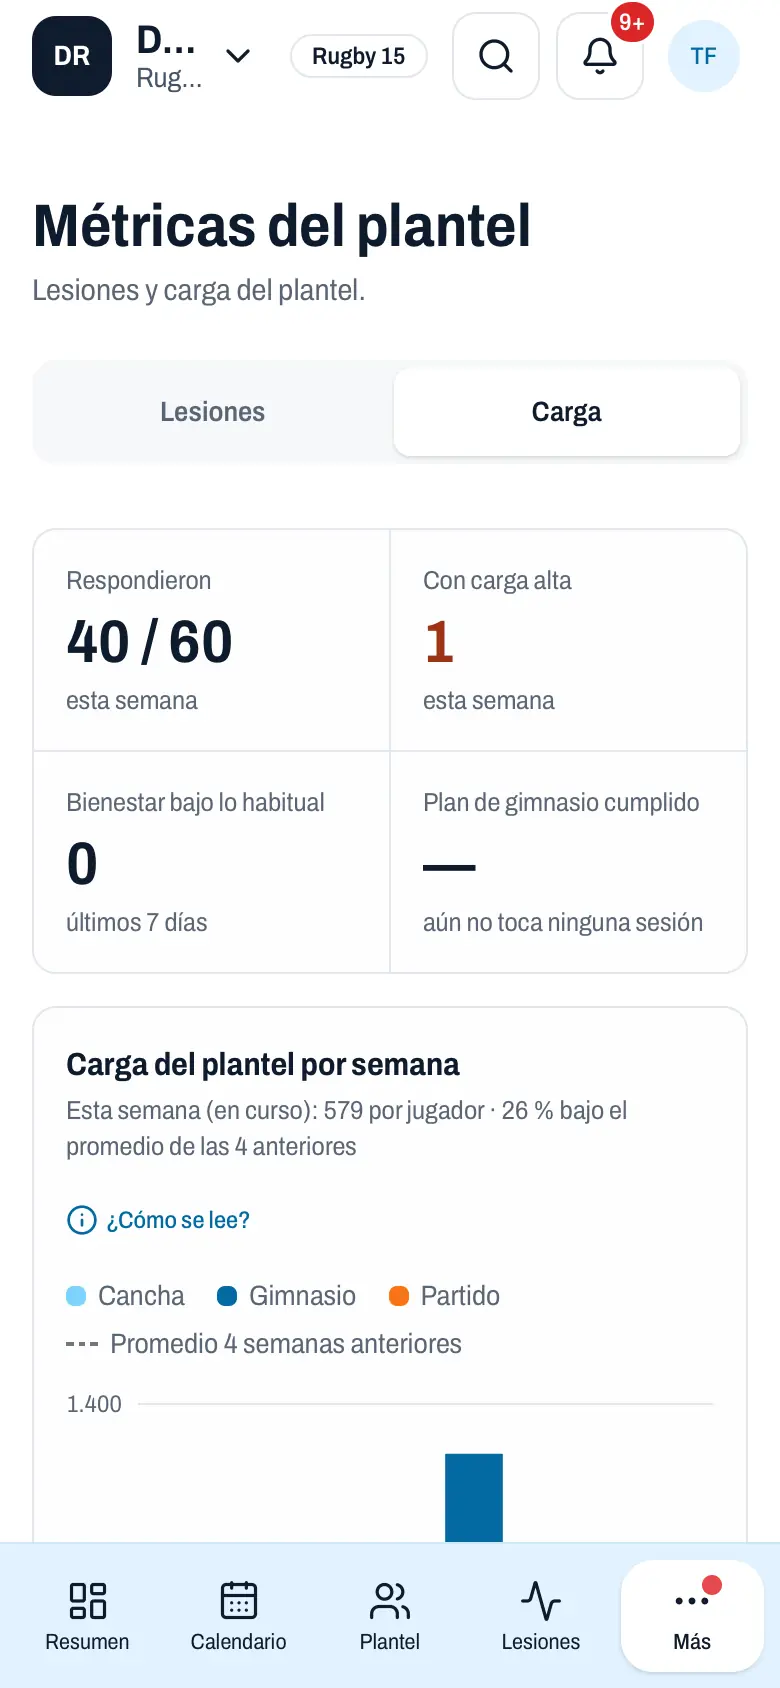
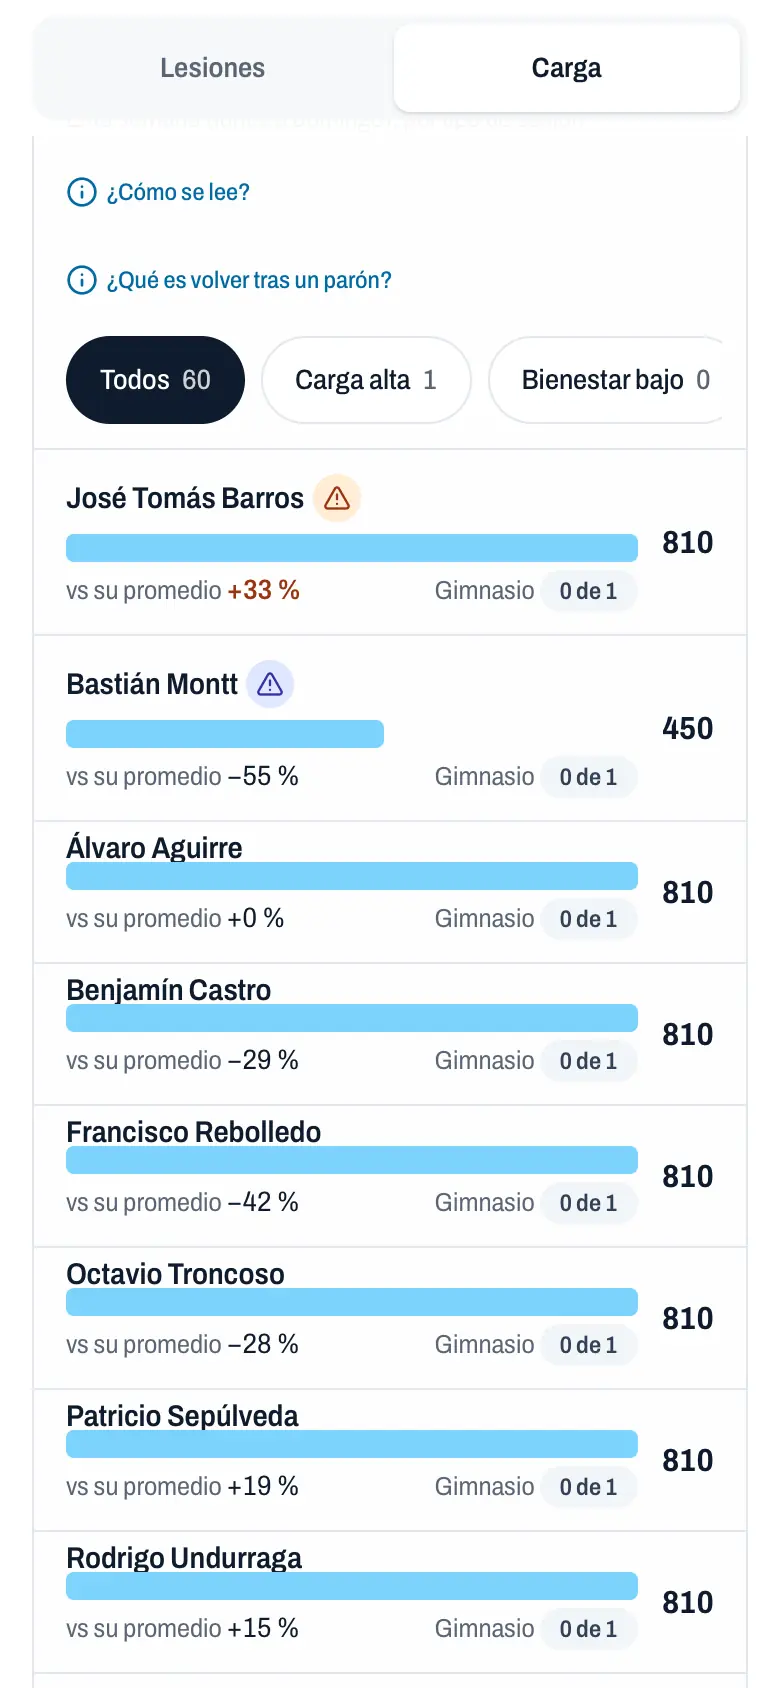
Landing: capturas de Funciones recortadas a lo importante de cada pantalla
- El script oculta el encabezado del club y la barra inferior solo al capturar y deja arriba el
  foco de cada pantalla (cancha de la nómina, escala de esfuerzo con un 7, "Tu estado", mapa del
  cuerpo, "Carga por jugador", etc.).
- Navegación más robusta en next dev (redirecciones cruzadas y focos que no aparecen).
- La nómina demo no convoca a jugadores con lesión abierta (evita el aviso rojo en la captura).

diff --git a/scripts/capturas-landing.ts b/scripts/capturas-landing.ts
@@ -85,7 +85,9 @@ async function session(role: Role, device: Device) {
     { name: "recov_club", value: CLUB_ID, url: BASE },
     { name: "recov_format", value: "15", url: BASE },
   ]);
-  await page.goto(`${BASE}/dashboard`, { waitUntil: "domcontentloaded" });
+  // Tras el login la app aún puede estar redirigiendo: se espera y, si se cruza, se reintenta.
+  await page.waitForLoadState("networkidle", { timeout: 15000 }).catch(() => {});
+  await go(page, "/dashboard");
   if (!/Demo - Rugby/.test(await page.locator("body").innerText())) {
     throw new Error(`La cuenta ${role} no entró a Demo - Rugby`);
   }
@@ -100,13 +102,18 @@ async function settle(page: Page) {
 }
 
 async function go(page: Page, url: string) {
-  await page.goto(`${BASE}${url}`, { waitUntil: "domcontentloaded" });
+  // Si la app redirige a la misma pantalla (p. ej. al fijar el plantel activo), Playwright avisa
+  // que la navegación se cruzó: basta con esperar a que la segunda termine.
+  await page.goto(`${BASE}${url}`, { waitUntil: "domcontentloaded" }).catch(async (e: Error) => {
+    if (!/interrupted by another navigation/.test(e.message)) throw e;
+    await page.waitForLoadState("domcontentloaded");
+  });
   await settle(page);
 }
 
 /** Lleva un elemento a la parte de arriba de la pantalla, con un margen. */
 async function top(page: Page, loc: Locator, margin = 12) {
-  await loc.scrollIntoViewIfNeeded();
+  await loc.scrollIntoViewIfNeeded({ timeout: 8000 });
   await loc.evaluate((el, m) => window.scrollTo(0, Math.max(0, el.getBoundingClientRect().top + window.scrollY - m)), margin);
   await page.waitForTimeout(300);
 }
@@ -116,44 +123,114 @@ async function click(p: Page, loc: Locator) {
   await settle(p);
 }
 
-type Cap = { file: string; role: Role; device: Device; run: (p: Page) => Promise<void> };
+/**
+ * Celular: oculta el encabezado del club y la barra inferior de la app (solo en la captura, con
+ * CSS inyectado) para que la pantalla muestre lo importante, sin chrome repetido.
+ */
+async function hideChrome(page: Page) {
+  await page.addStyleTag({
+    content: `
+      header[class*="safe-area-inset-top"],
+      nav[aria-label="Navegación principal"] { display: none !important; }
+      html, body { scroll-behavior: auto !important; }
+      /* Espacio extra al final para poder dejar arriba el foco aunque la pantalla sea corta. */
+      body { padding-bottom: 100vh !important; }`,
+  });
+  await page.waitForTimeout(150);
+}
+
+/** Atajos para elegir el elemento que va arriba en cada captura. */
+const heading = (p: Page, text: string | RegExp) => p.getByRole("heading", { name: text }).filter({ visible: true }).first();
+const visibleText = (p: Page, text: string | RegExp) => p.getByText(text).filter({ visible: true }).first();
+
+type Cap = {
+  file: string;
+  role: Role;
+  device: Device;
+  run: (p: Page) => Promise<void>;
+  /** Elemento que queda arriba de la pantalla, con un margen en px (por defecto 24). */
+  focus?: (p: Page) => Locator;
+  margin?: number;
+};
 const caps: Cap[] = [
   { file: "hero-ipad-staff-resumen", role: "head-coach", device: "ipad", run: (p) => go(p, "/dashboard") },
-  { file: "staff-resumen", role: "head-coach", device: "phone", run: (p) => go(p, "/dashboard") },
-  { file: "staff-lesiones", role: "kine", device: "phone", run: (p) => go(p, "/lesiones") },
-  { file: "staff-calendario", role: "head-coach", device: "phone", run: (p) => go(p, "/calendario") },
+  {
+    file: "staff-resumen",
+    role: "head-coach",
+    device: "phone",
+    run: (p) => go(p, "/dashboard"),
+    focus: (p) => heading(p, "Disponibilidad del plantel"),
+  },
+  {
+    file: "staff-lesiones",
+    role: "kine",
+    device: "phone",
+    run: (p) => go(p, "/lesiones"),
+  },
+  {
+    file: "staff-calendario",
+    role: "head-coach",
+    device: "phone",
+    run: (p) => go(p, "/calendario"),
+    focus: (p) => visibleText(p, /^lun, \d+ \w+ – dom/),
+  },
   {
     file: "staff-partido",
     role: "head-coach",
     device: "phone",
     run: async (p) => {
+      // Nómina del próximo partido en vista Cancha: titulares en sus puestos.
       await go(p, "/nominas");
       const id = await p.locator("a[href*='/disponibles']").first().getAttribute("href");
       if (!id) throw new Error("Sin nómina del próximo partido");
       await go(p, id);
+      // Clic por JS: en `next dev` a veces una capa transparente intercepta el puntero.
+      await p.getByRole("button", { name: "Cancha" }).filter({ visible: true }).first().evaluate((b) => (b as HTMLElement).click());
+      await settle(p);
     },
+    // El resumen de la nómina queda fijo arriba: el selector Lista | Cancha va justo debajo.
+    focus: (p) => p.getByRole("group", { name: "Vista" }).filter({ visible: true }).first(),
+    margin: 150,
   },
   {
     file: "staff-evaluaciones",
     role: "preparador-fisico",
     device: "phone",
-    run: async (p) => {
-      await go(p, "/evaluaciones?tab=comparar");
-    },
+    run: (p) => go(p, "/evaluaciones?tab=comparar"),
+    focus: (p) => visibleText(p, /^Test$/),
+    margin: 40,
   },
   {
     file: "staff-gimnasio",
     role: "preparador-fisico",
     device: "phone",
-    run: async (p) => {
-      // Lleva la sesión (bloques y ejercicios) a la parte de arriba de la pantalla.
-      await go(p, `/planes/${PLAN_GIMNASIO}`);
-      await top(p, p.getByText(/Sentadilla/).filter({ visible: true }).first(), 220);
-    },
+    run: (p) => go(p, `/planes/${PLAN_GIMNASIO}`),
+    // La sesión: nombre, día y los bloques con sus ejercicios.
+    focus: (p) => visibleText(p, /Sentadilla/),
+    margin: 150,
   },
-  { file: "staff-carga", role: "head-coach", device: "phone", run: (p) => go(p, "/metricas?tab=carga") },
-  { file: "jugador-resumen", role: "jugador", device: "phone", run: (p) => go(p, "/dashboard") },
-  { file: "jugador-registrar-lesion", role: "jugador", device: "phone", run: (p) => go(p, "/registrar-lesion") },
+  {
+    file: "staff-carga",
+    role: "head-coach",
+    device: "phone",
+    run: (p) => go(p, "/metricas?tab=carga"),
+    focus: (p) => heading(p, "Carga por jugador"),
+  },
+  {
+    file: "jugador-resumen",
+    role: "jugador",
+    device: "phone",
+    run: (p) => go(p, "/dashboard"),
+    focus: (p) => visibleText(p, /^Tu estado$/),
+    margin: 48,
+  },
+  {
+    file: "jugador-registrar-lesion",
+    role: "jugador",
+    device: "phone",
+    run: (p) => go(p, "/registrar-lesion"),
+    focus: (p) => visibleText(p, /^Zona del cuerpo$/),
+  },
   {
     file: "jugador-registrar-carga",
     role: "jugador",
@@ -165,11 +242,35 @@ const caps: Cap[] = [
       const href = await p.locator("a[href^='/reportar/']").first().getAttribute("href");
       if (!href) throw new Error("El jugador no tiene carga por registrar (¿se sembró la semana demo?)");
       await go(p, href);
+      // Elige un 7 sin guardar, para que se vea la escala marcada.
+      await p.getByRole("button", { name: "Esfuerzo 7" }).first().click();
+      await p.waitForTimeout(400);
     },
+    focus: (p) => heading(p, /Qué tan duro fue/),
   },
-  { file: "jugador-calendario", role: "jugador", device: "phone", run: (p) => go(p, "/calendario") },
-  { file: "jugador-evaluaciones", role: "jugador", device: "phone", run: (p) => go(p, "/evaluaciones") },
-  { file: "jugador-carga", role: "jugador", device: "phone", run: (p) => go(p, "/mi-carga") },
+  {
+    file: "jugador-calendario",
+    role: "jugador",
+    device: "phone",
+    run: (p) => go(p, "/calendario"),
+    focus: (p) => visibleText(p, /^lun, \d+ \w+ – dom/),
+  },
+  {
+    file: "jugador-evaluaciones",
+    role: "jugador",
+    device: "phone",
+    run: (p) => go(p, "/evaluaciones"),
+    focus: (p) => visibleText(p, /^Último resultado$/),
+    margin: 40,
+  },
+  {
+    file: "jugador-carga",
+    role: "jugador",
+    device: "phone",
+    run: (p) => go(p, "/mi-carga"),
+    focus: (p) => visibleText(p, /^Esta semana$/),
+    margin: 40,
+  },
 ];
 
 async function saveWebp(png: Buffer, file: string) {
@@ -194,6 +295,14 @@ async function main() {
       if (solo && !solo.includes(c.file)) continue;
       const page = await session(c.role, c.device);
       await c.run(page);
+      if (c.device === "phone") await hideChrome(page);
+      if (c.focus) {
+        await top(page, c.focus(page), c.margin ?? 24).catch(async () => {
+          console.warn(`  ${c.file}: no encontré el elemento de foco; queda desde arriba`);
+          await page.evaluate(() => window.scrollTo(0, 0));
+        });
+      }
+      else await page.evaluate(() => window.scrollTo(0, 0));
       const png = await page.screenshot();
       const r = await saveWebp(png, c.file);
       console.log(`${c.file}.webp  ${r.width}×${r.height}  ${r.kb} KB  (${c.role})`);

diff --git a/docs/estado-actual.md b/docs/estado-actual.md
@@ -55,6 +55,7 @@ Plataforma web de seguimiento de lesiones para clubes deportivos amateur (7 depo
 
 ## Historial
 
+- 24 nov · #138 · Landing, Funciones: capturas recortadas a lo importante de cada pantalla (sin encabezado del club ni barra inferior, que el script oculta solo al capturar; cada captura con su foco: cancha de la nómina, escala de esfuerzo con un 7 marcado, "Tu estado", mapa del cuerpo, etc.). La nómina demo ya no convoca a un jugador con lesión abierta. Sin migración.
 - 24 nov · #137 · Landing, Deportes: los 7 deportes son botones y cambian una pantalla interactiva "Plantel" (no un celular) con la cancha del deporte (`Pitch` y `PITCH_LAYOUTS` de la app); al tocar un puesto se ven 3 jugadores ficticios con su disponibilidad, y en rugby hay selector Rugby 15 | Sevens (`src/app/(landing)/inicio/sports-demo.tsx`). Footer con Instagram @recovapp. Sin migración.
 - 23 nov · #136 · Landing rediseñada (sin migración): header fijo con anclas, hero navy con foto e iPad hecho con CSS, Cómo funciona, Funciones con selector Staff | Jugadores y celular con la captura elegida, Deportes, Pide acceso (mismo formulario y misma acción, rol "Tu rol"), FAQs con `<details>` y footer. Titulares en Archivo condensado (eje `wdth`) e Inter con `next/font`; estilos propios en `src/app/(landing)/inicio/landing.css` (clases `lp-`). 15 capturas nuevas en `public/landing/` sacadas con `npm run landing:capturas` (`scripts/capturas-landing.ts`, Playwright) sobre la semana demo de `scripts/landing/seed.sql` (Demo - Rugby, adulta, ficticio).
 - 20 nov · #133 · Pantalla "Mi carga" del jugador (sin migración ni funciones nuevas): es una pantalla propia en `/mi-carga` (sidebar y hoja "Más" del jugador; la pestaña Carga de su propia ficha lleva allí, el staff ve la de siempre). Incluye la caja "¿Qué significa tu N?" que explica la carga con sus propias sesiones. Junta por responder (esfuerzos y gimnasio pendientes), aviso de vuelta tras parón (índigo, sin números), "Esta semana" (carga, promedio, barra cancha/gimnasio, sesiones, minutos, esfuerzo y Mi físico), 6 semanas apiladas con promedio y semanas de parón rayadas, "Sesiones de la semana" de L a D y "Mi bienestar". Las tarjetas "Mi carga" y "Mi bienestar" del Resumen son links y hay destino "Mi carga" en el buscador. Lecturas: `player_weekly_load`, `my_pending_reports`, `player_return_flag`, `my_gym_week`, eventos, `session_rpe` y `wellness_reports` propios (`src/lib/my-load.ts`, `src/app/mi-carga/`); `StackedBarChart` suma totales, rótulo de referencia y semanas rayadas.
